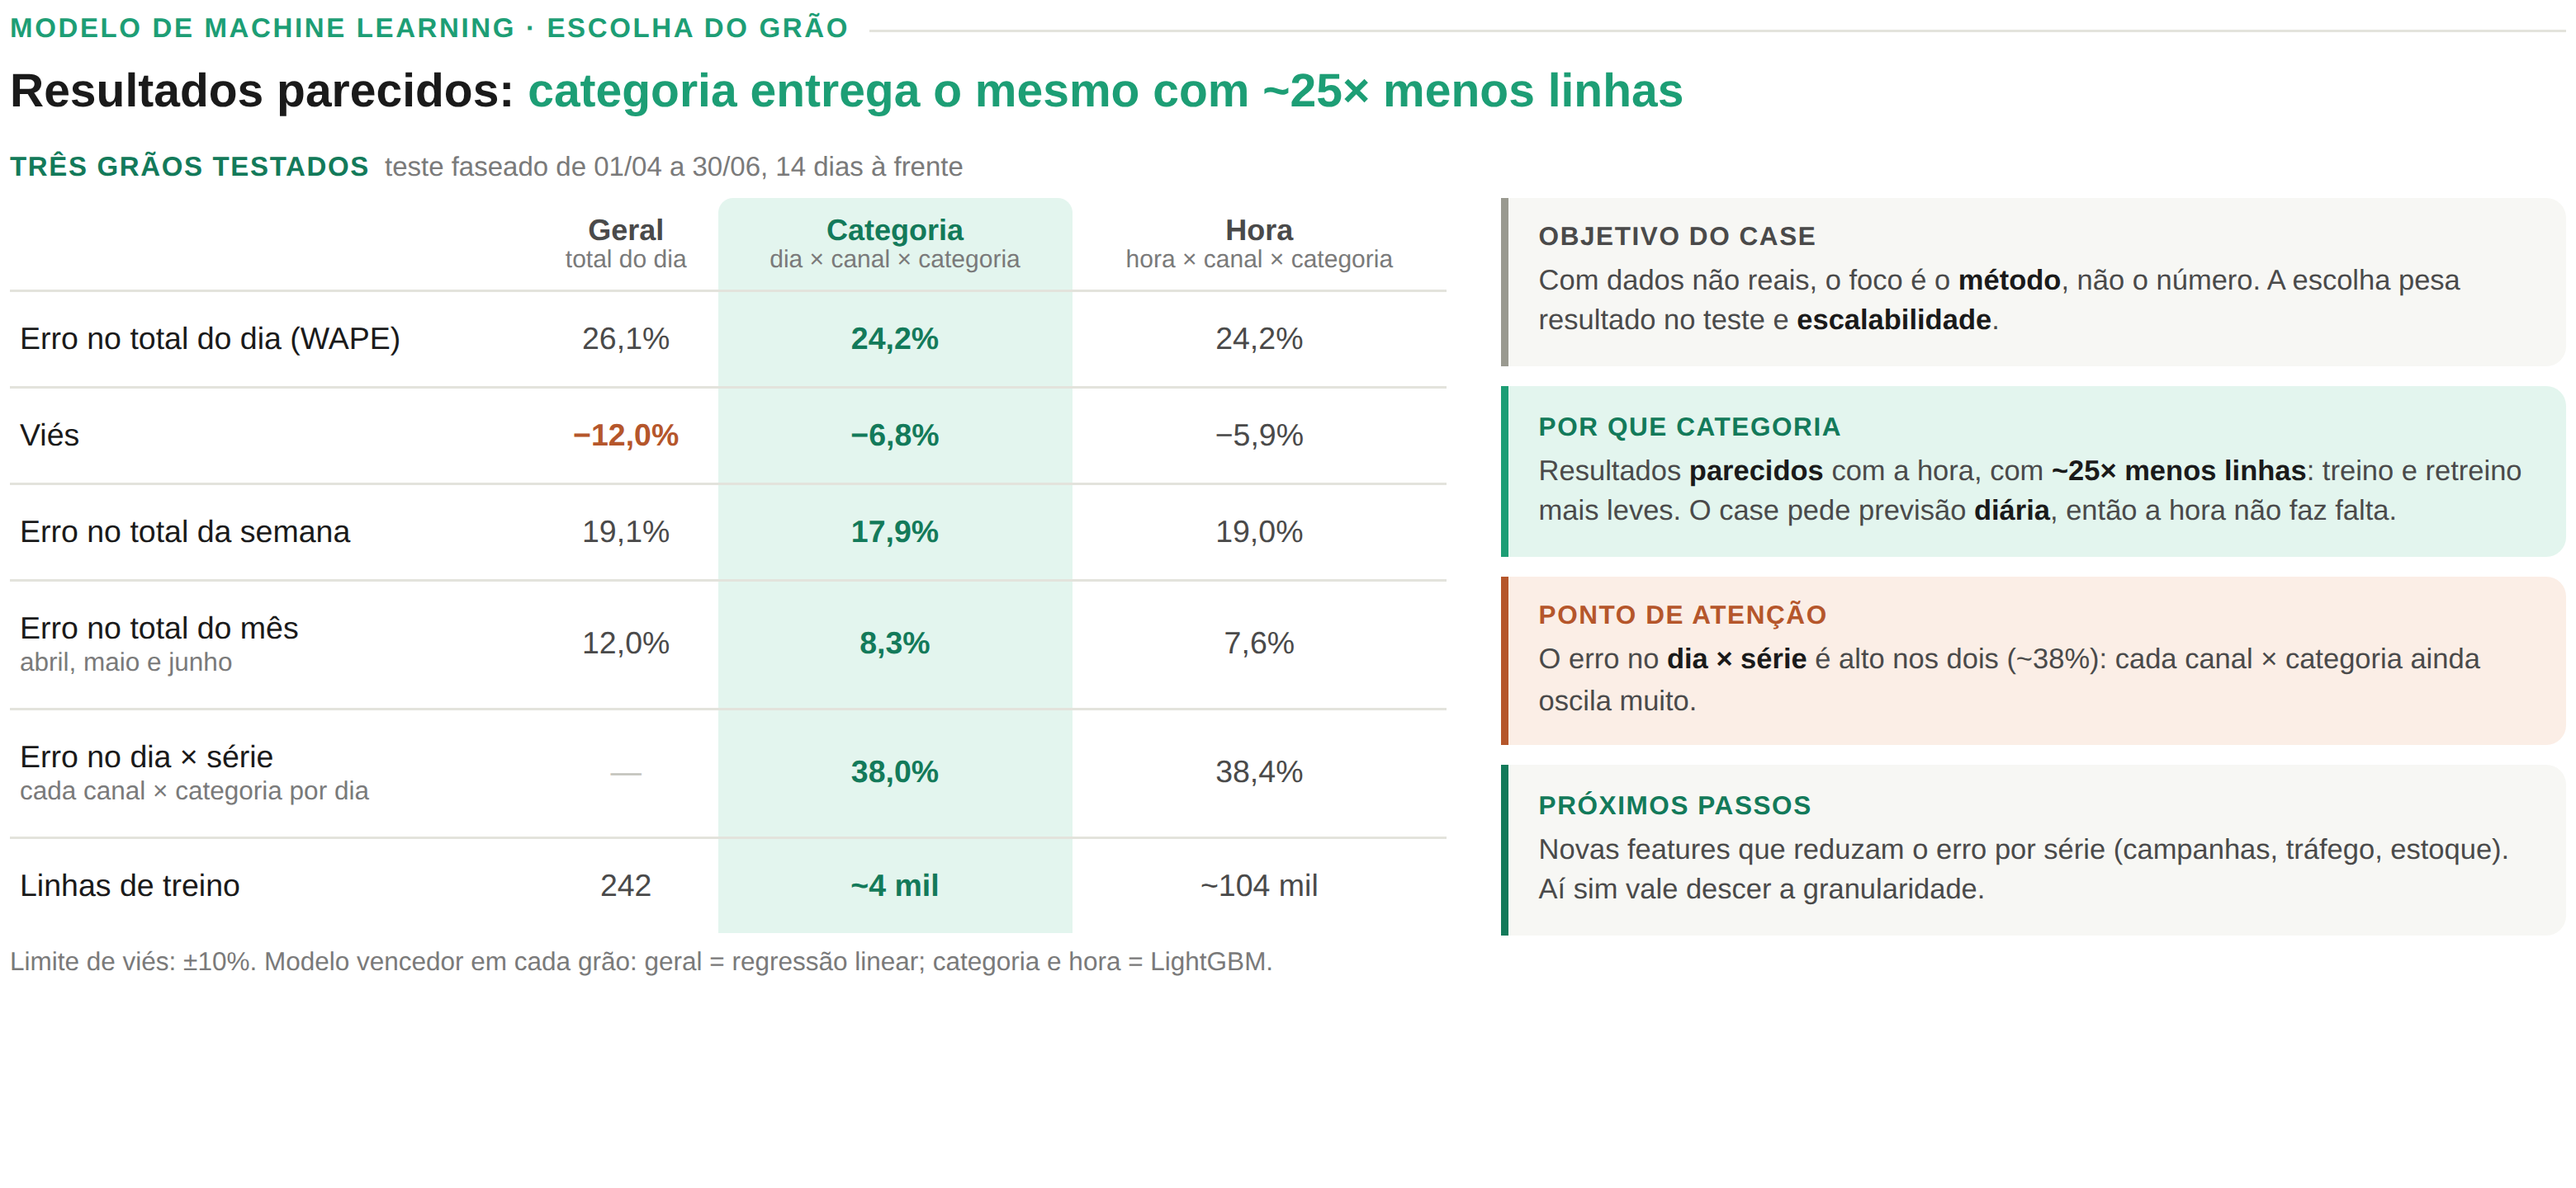
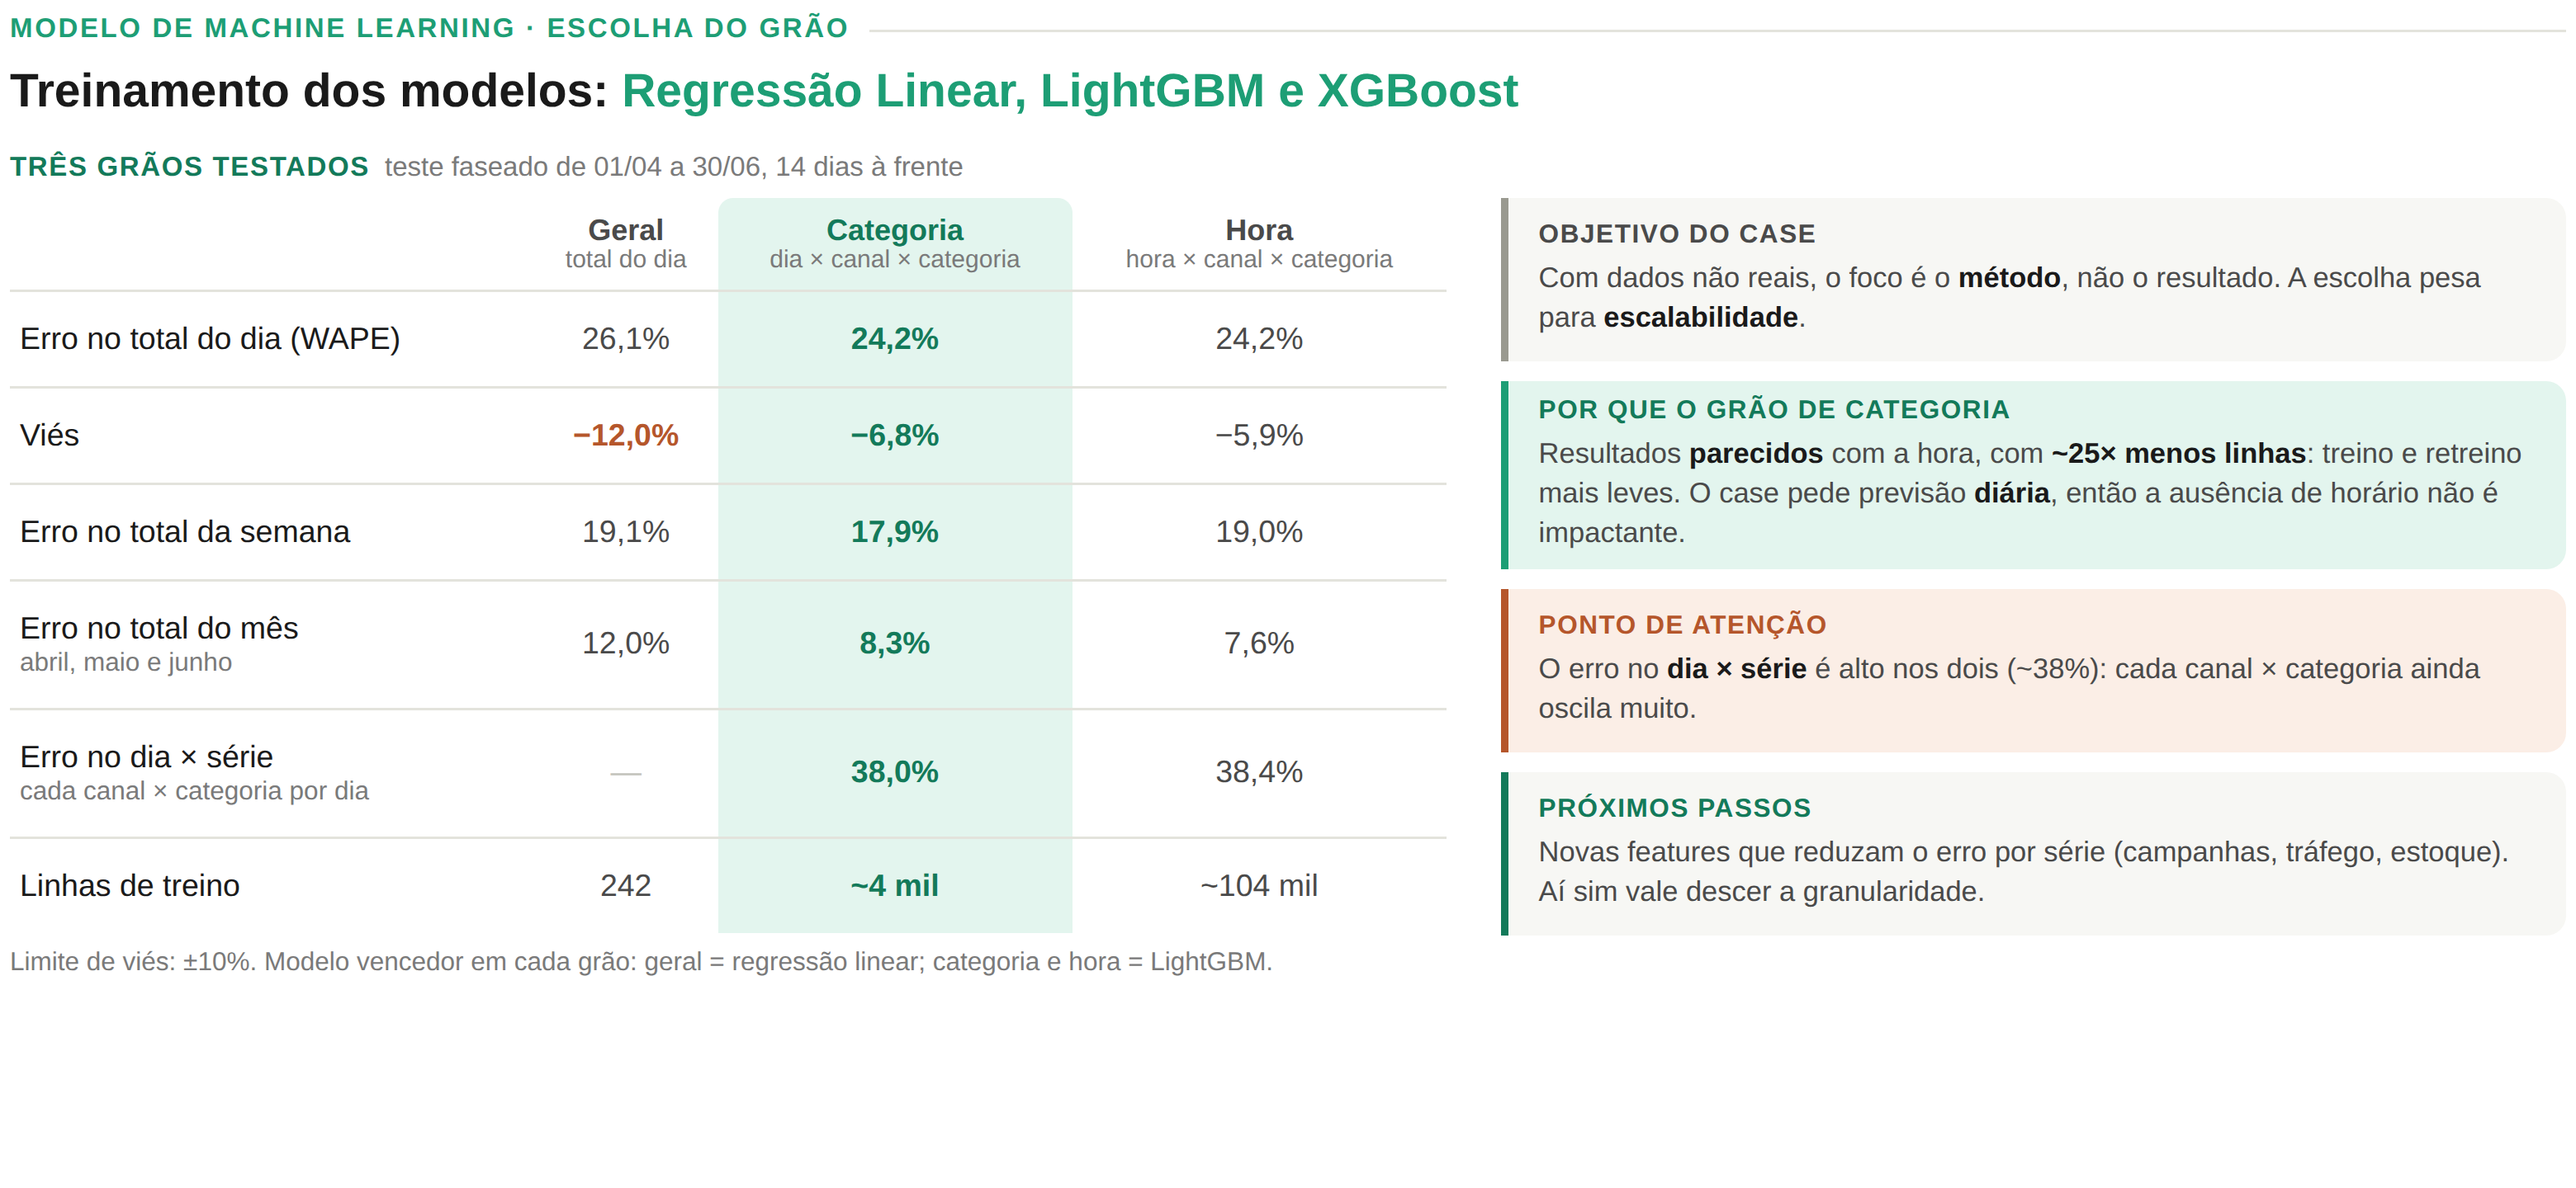
Widget de comparação: novo título e textos
Claude-Session: https://claude.ai/code/session_01NUJZKTcM8cs9QBTcUeuacF

Changed region(s): [[0.5596, 0.3125, 0.9949, 0.7812], [0.5907, 0.1875, 0.9638, 0.2812], [0.0, 0.0625, 0.6529, 0.0938]]

diff --git a/apresentacao/widgets/14_comparacao_graos.html b/apresentacao/widgets/14_comparacao_graos.html
@@ -57,7 +57,7 @@
 <body>
 <div class="widget">
   <div class="rotulo">Modelo de machine learning · escolha do grão</div>
-  <h3>Resultados parecidos: <span>categoria entrega o mesmo com ~25× menos linhas</span></h3>
+  <h3>Treinamento dos modelos: <span>Regressão Linear, LightGBM e XGBoost</span></h3>
   <div class="colunas">
     <div>
       <div class="tit">Três grãos testados<small>teste faseado de 01/04 a 30/06, 14 dias à frente</small></div>
@@ -73,8 +73,8 @@
       <div class="nota">Limite de viés: ±10%. Modelo vencedor em cada grão: geral = regressão linear; categoria e hora = LightGBM.</div>
     </div>
     <div class="ruido">
-      <div class="card neutro"><span class="t">Objetivo do case</span><p>Com dados não reais, o foco é o <b>método</b>, não o número. A escolha pesa resultado no teste e <b>escalabilidade</b>.</p></div>
-      <div class="card ok"><span class="t">Por que categoria</span><p>Resultados <b>parecidos</b> com a hora, com <b>~25× menos linhas</b>: treino e retreino mais leves. O case pede previsão <b>diária</b>, então a hora não faz falta.</p></div>
+      <div class="card neutro"><span class="t">Objetivo do case</span><p>Com dados não reais, o foco é o <b>método</b>, não o resultado. A escolha pesa para <b>escalabilidade</b>.</p></div>
+      <div class="card ok"><span class="t">Por que o grão de categoria</span><p>Resultados <b>parecidos</b> com a hora, com <b>~25× menos linhas</b>: treino e retreino mais leves. O case pede previsão <b>diária</b>, então a ausência de horário não é impactante.</p></div>
       <div class="card alerta"><span class="t">Ponto de atenção</span><p>O erro no <b>dia × série</b> é alto nos dois (~38%): cada canal × categoria ainda oscila muito.</p></div>
       <div class="card prox"><span class="t">Próximos passos</span><p>Novas features que reduzam o erro por série (campanhas, tráfego, estoque). Aí sim vale descer a granularidade.</p></div>
     </div>
